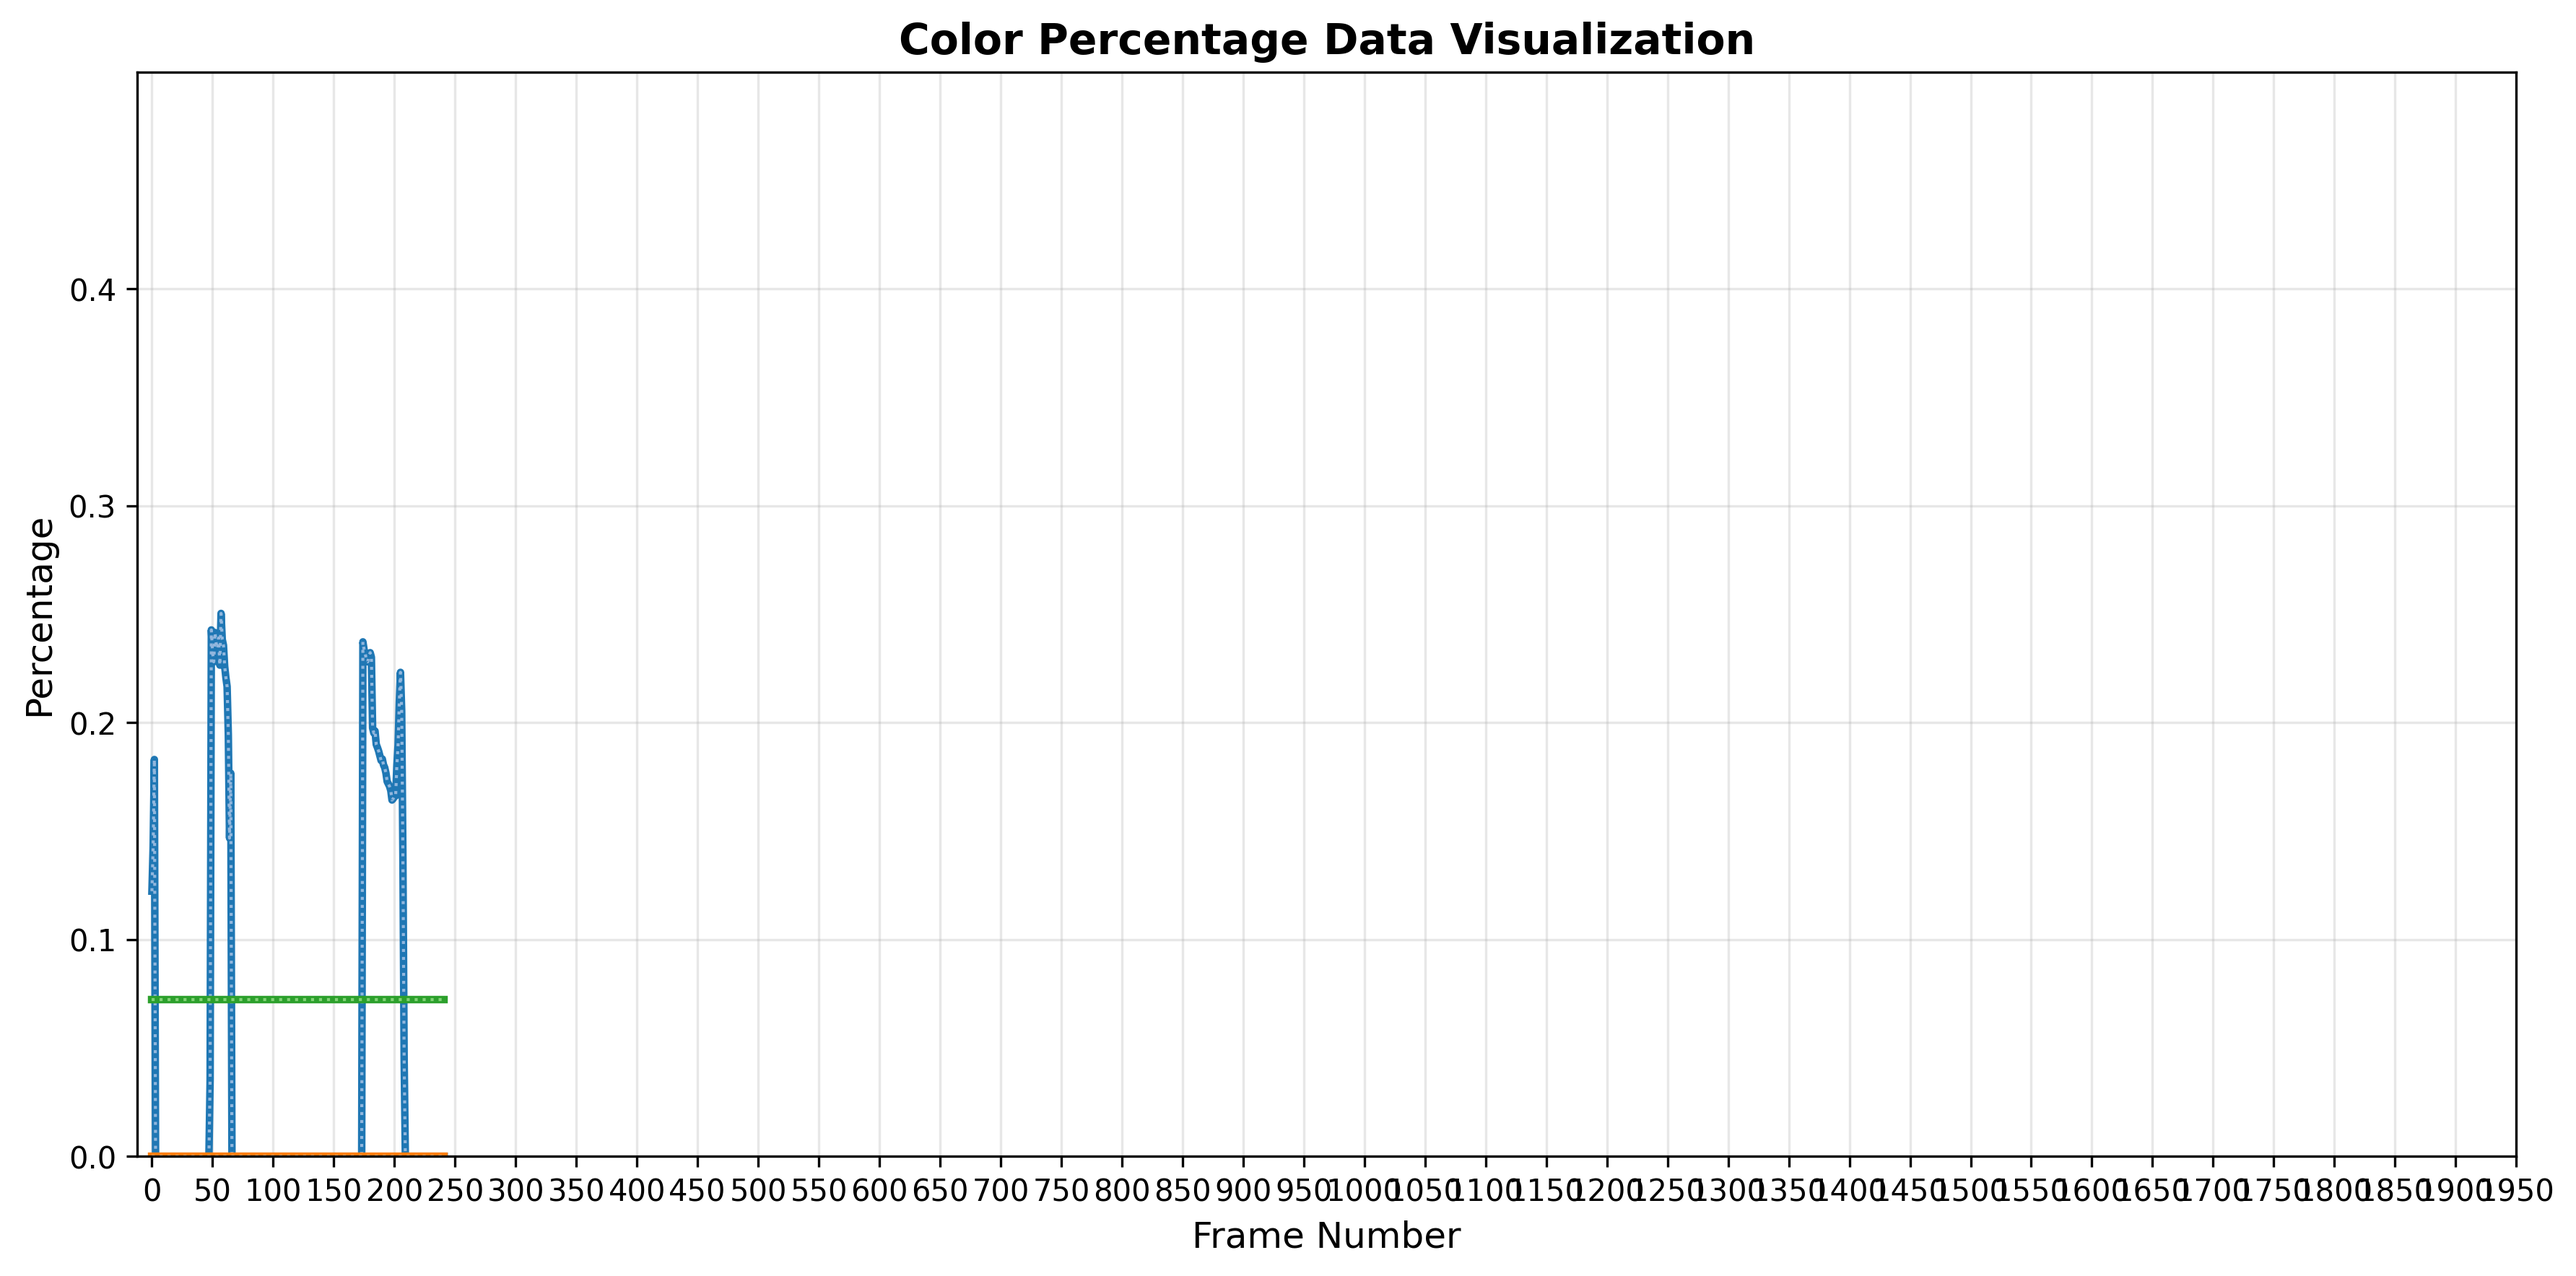
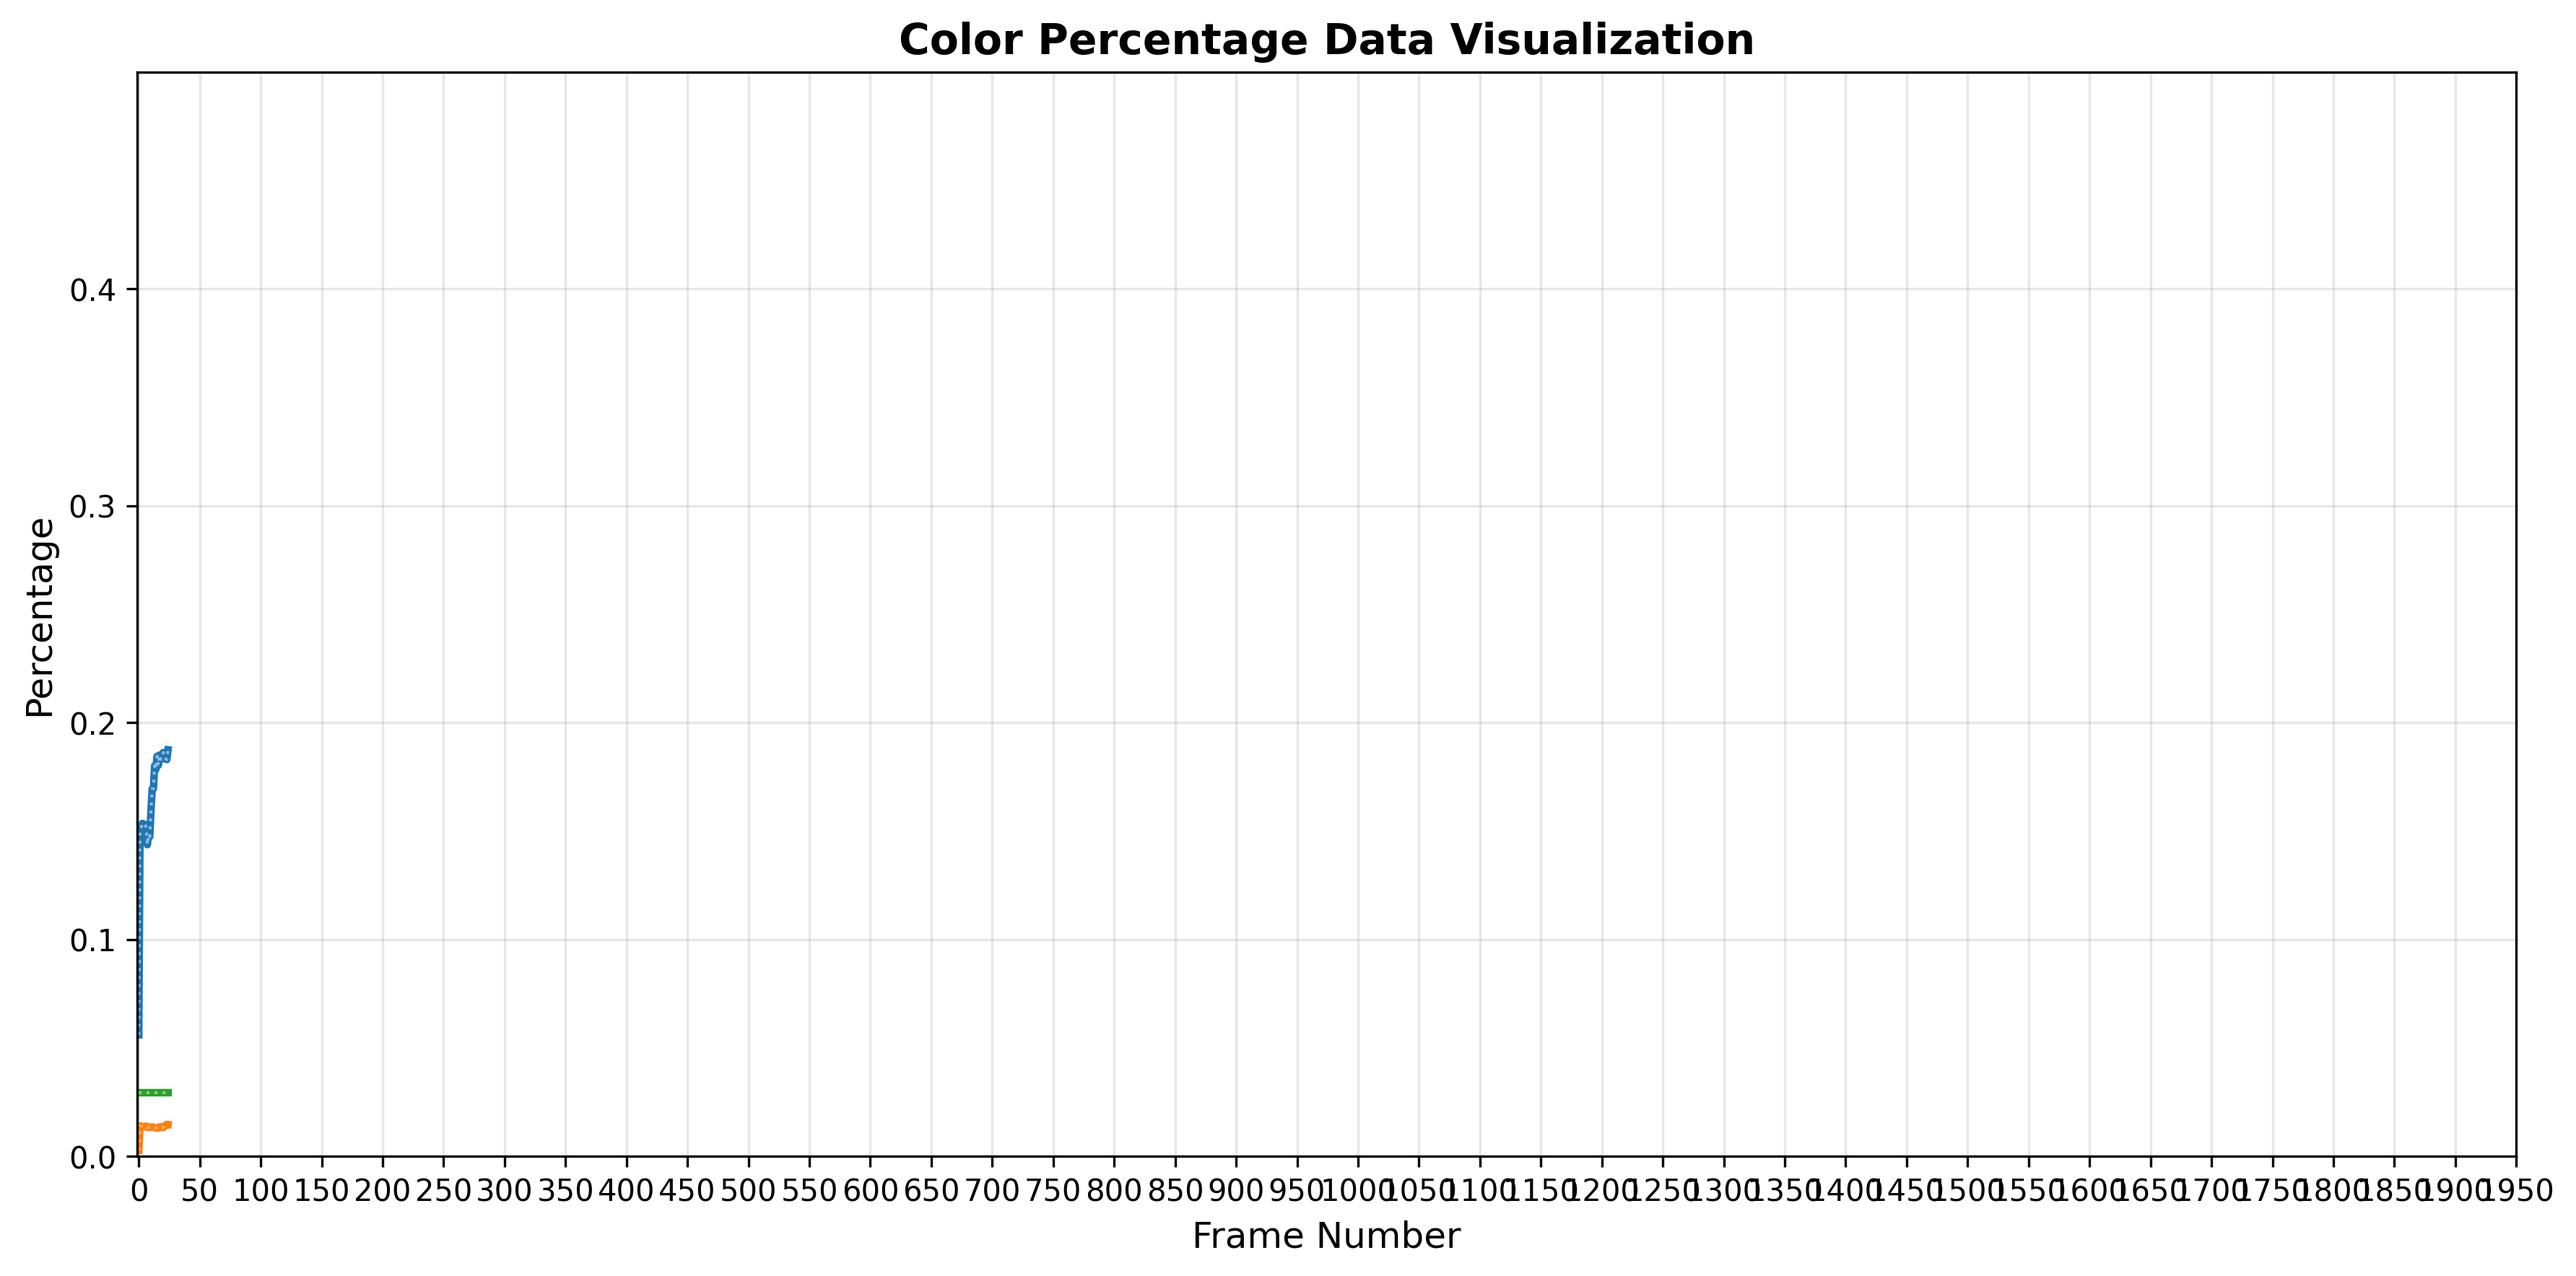
fixed graphing and lowered lower limit for findourbot threshold

Changed region(s): [[0.0311, 0.4977, 0.9333, 0.9644]]

diff --git a/corner_detection/corner_detection_helpers.py b/corner_detection/corner_detection_helpers.py
@@ -19,7 +19,7 @@ def find_bot_color_pixels(image: np.ndarray, bot_color_hsv: list) -> int:
     hsv_image = cv2.cvtColor(image, cv2.COLOR_BGR2HSV)
 
     # Define the HSV range for the robot's color
-    lower_limit = np.array([max(0, bot_color_hsv[0] - 3), 125, 125])
+    lower_limit = np.array([max(0, bot_color_hsv[0] - 3), 100, 100])
     upper_limit = np.array([min(179, bot_color_hsv[0] + 3), 255, 255])
 
     # Create a mask for the robot's color in the image
@@ -85,6 +85,8 @@ def find_our_bot(self, images: list[np.ndarray], bot_color_hsv, first_run=False)
                 continue
             
             color_pixel_count = find_bot_color_pixels(image, bot_color_hsv)
+            print("OOGABOOGA", color_pixel_count)
+
             image_area = image.size/3
             color_percentage = color_pixel_count/image_area
 
@@ -118,7 +120,7 @@ def find_our_bot(self, images: list[np.ndarray], bot_color_hsv, first_run=False)
 
         
         #Writing information to be graphed
-        if len(bot_color_percentages) == 2:
+        if len(bot_color_percentages) >= 2:
             self.color_percentage_rows.append((bot_color_percentages[-1], bot_color_percentages[-2],self.huey_color_percentage_threshold))
         if len(bot_color_percentages) == 1:
             if bot_color_percentages[0] > self.huey_color_percentage_threshold:

diff --git a/main.py b/main.py
@@ -48,8 +48,8 @@ if COMP_SETTINGS:
 folder = os.getcwd() + "/main_files"
 frame_rate = 30
 # camera_number = folder + "/test_videos/kabedon_huey.mp4"
-# camera_number = folder + "/test_videos/kabedon_huey.mp4"
-camera_number = folder + "/test_videos/huey_hell.mp4"
+camera_number = folder + "/test_videos/nhrl_arena.mp4"
+# camera_number = folder + "/test_videos/huey_hell.mp4"
 # camera_number = folder + "/test_videos/green_huey_demo.mp4"
 # camera_number = 0
 
@@ -152,7 +152,7 @@ def main():
 
                 # 11.5 Quantize those mf colors
                 if COLOR_QUANTIZATION:
-                    detected_bots = quantize(detected_bots, selected_colors, show=False)
+                    detected_bots = quantize(detected_bots, selected_colors, show=True)
 
                 #indonesia.set_bots(detected_bots)
                 corner_detection.set_bots(detected_bots)
